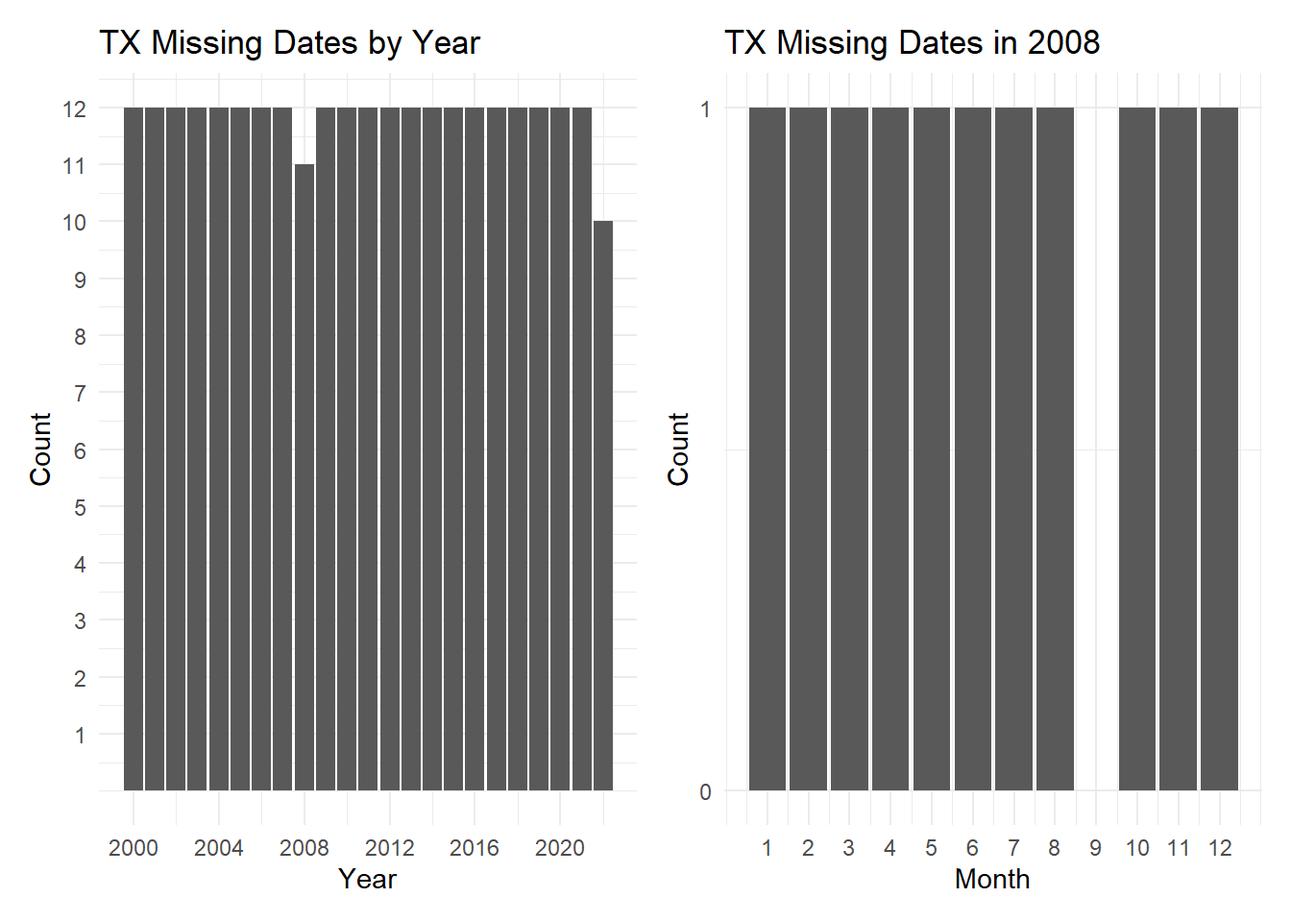
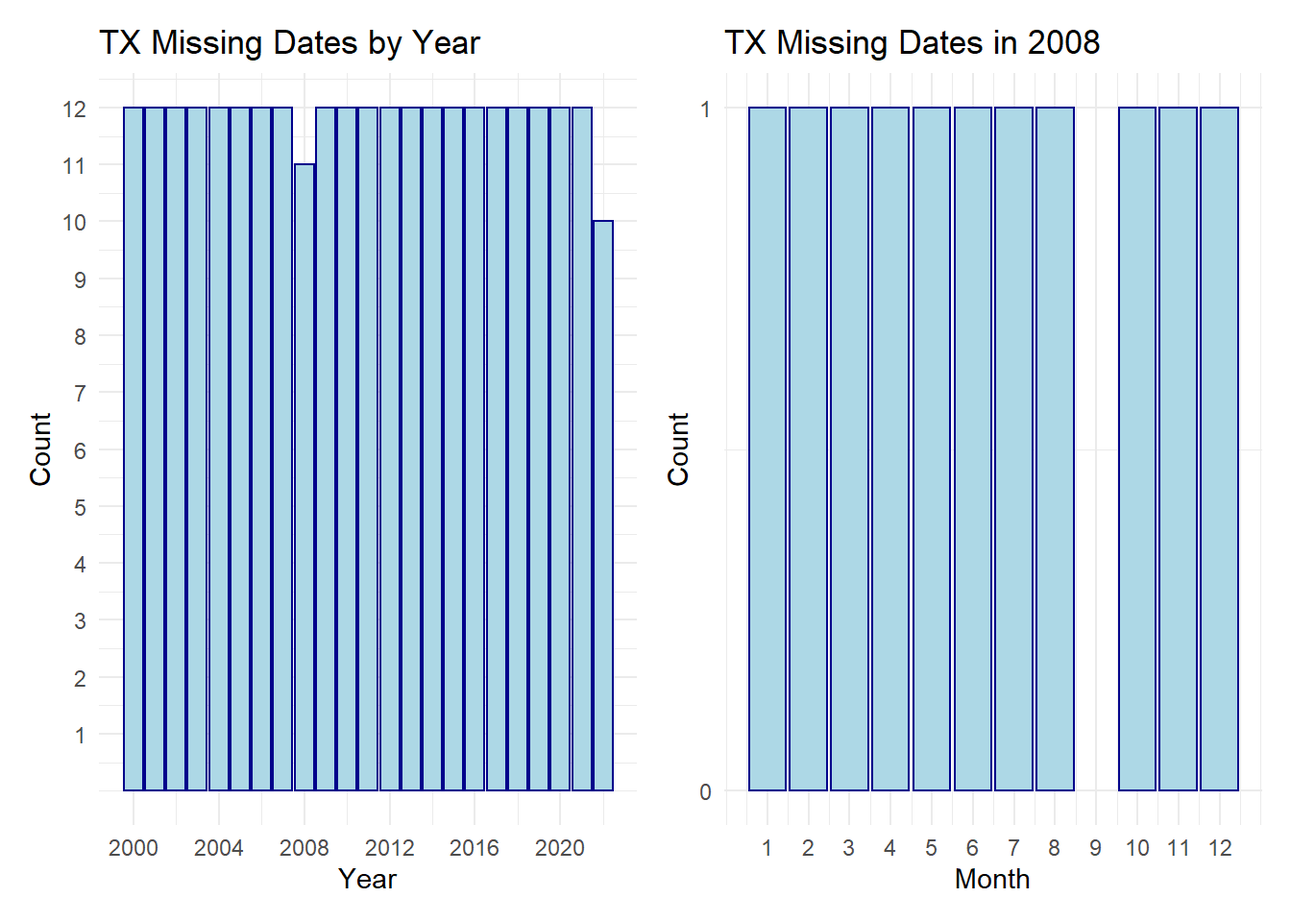
Complete Data and Results Pages and Build Book

diff --git a/docs/results.html b/docs/results.html
@@ -23,7 +23,7 @@
 <meta name="author" content="Kylie Brothers, Spencer Davis, and Sheris Johnet" />
 
 
-<meta name="date" content="2022-12-14" />
+<meta name="date" content="2022-12-15" />
 
   <meta name="viewport" content="width=device-width, initial-scale=1" />
   <meta name="apple-mobile-web-app-capable" content="yes" />
@@ -89,9 +89,13 @@
 </ul></li>
 <li class="chapter" data-level="4" data-path="results.html"><a href="results.html"><i class="fa fa-check"></i><b>4</b> Results</a>
 <ul>
-<li class="chapter" data-level="4.1" data-path="results.html"><a href="results.html#mean-high-water-mhw"><i class="fa fa-check"></i><b>4.1</b> Mean High Water (MHW)</a></li>
+<li class="chapter" data-level="4.1" data-path="results.html"><a href="results.html#mean-high-water-ft"><i class="fa fa-check"></i><b>4.1</b> Mean High Water (ft)</a></li>
 <li class="chapter" data-level="4.2" data-path="results.html"><a href="results.html#mean-low-water-mlw"><i class="fa fa-check"></i><b>4.2</b> Mean Low Water (MLW)</a></li>
-<li class="chapter" data-level="4.3" data-path="results.html"><a href="results.html#mean-tide-level-mtl"><i class="fa fa-check"></i><b>4.3</b> Mean Tide Level (MTL)</a></li>
+<li class="chapter" data-level="4.3" data-path="results.html"><a href="results.html#time-series"><i class="fa fa-check"></i><b>4.3</b> Time Series</a>
+<ul>
+<li class="chapter" data-level="4.3.1" data-path="results.html"><a href="results.html#mean-high-water"><i class="fa fa-check"></i><b>4.3.1</b> Mean High Water</a></li>
+<li class="chapter" data-level="4.3.2" data-path="results.html"><a href="results.html#mean-low-water"><i class="fa fa-check"></i><b>4.3.2</b> Mean Low Water</a></li>
+</ul></li>
 </ul></li>
 <li class="chapter" data-level="5" data-path="interactive-component.html"><a href="interactive-component.html"><i class="fa fa-check"></i><b>5</b> Interactive component</a></li>
 <li class="chapter" data-level="6" data-path="conclusion.html"><a href="conclusion.html"><i class="fa fa-check"></i><b>6</b> Conclusion</a></li>
@@ -116,15 +120,39 @@
             <section class="normal" id="section-">
 <div id="results" class="section level1 hasAnchor" number="4">
 <h1><span class="header-section-number">Chapter 4</span> Results<a href="results.html#results" class="anchor-section" aria-label="Anchor link to header"></a></h1>
-<div id="mean-high-water-mhw" class="section level2 hasAnchor" number="4.1">
-<h2><span class="header-section-number">4.1</span> Mean High Water (MHW)<a href="results.html#mean-high-water-mhw" class="anchor-section" aria-label="Anchor link to header"></a></h2>
+<div id="mean-high-water-ft" class="section level2 hasAnchor" number="4.1">
+<h2><span class="header-section-number">4.1</span> Mean High Water (ft)<a href="results.html#mean-high-water-ft" class="anchor-section" aria-label="Anchor link to header"></a></h2>
+<p><img src="finalproj_files/figure-html/unnamed-chunk-12-1.png" width="672" /></p>
+<p>Throughout the course of about 23 years, the National Oceanic and Atmospheric Administration (NOAA) has been collecting and recording the mean high water levels, measured in feet, for each of the stations around the United States. In the above graph, we can see all of the averages for each of the high water heights per month per station. By looking at these graphs, we can see that Alaska has the lowest overall, regardless of the time of the year or the trend. On the other hand, we can also see that California and New York have similar median water levels. However, it is important to note that New York has more variability and a higher H-spread.</p>
+<p><img src="finalproj_files/figure-html/unnamed-chunk-13-1.png" width="672" /></p>
+<p>Looking at the mean high water for each station as a histogram, we can see how often each station hits specific water levels and if they ever go above or below a specific value. In the above graph, we can see the number of months it reaches a certain foot above sea level. Similar to the box plot, we see that Alaska is the lowest, staying between 0 and 1 feet above sea level. Additionally, this graph solidifies the notion that California and New York have the highest mean high water level across all stations. However, in the histogram, we see that both stations are in the 5ft mark for about the same amount of time, which was not easily seen in the box plot.</p>
+<p><img src="finalproj_files/figure-html/unnamed-chunk-14-1.png" width="672" /></p>
+<p>When initially plotting the heat map for mean high water level, there was a lot of overplotting of data points, making it considerably hard to read the graphs, so we decided to jitter the points to make the chart look neater and easier to interpret.</p>
+<p>Based on the chart above, we can see that Alaska, Florida, New York, and Texas all have a similar spread width and variability, despite being at different mean high water levels. However, California and Hawaii have small amounts of variability month to month and roughly stay around the same mean high water level, hitting the same value multiple times, as shown with more lighter blue boxes.</p>
 </div>
 <div id="mean-low-water-mlw" class="section level2 hasAnchor" number="4.2">
 <h2><span class="header-section-number">4.2</span> Mean Low Water (MLW)<a href="results.html#mean-low-water-mlw" class="anchor-section" aria-label="Anchor link to header"></a></h2>
+<p><img src="finalproj_files/figure-html/unnamed-chunk-15-1.png" width="672" /></p>
+<p>Compared to the mean high water level graph, we can see major differences. For the mean high water, there was a greater variability between each of the stations, but when we looks at the mean low water levels, each station has a median value of around 0.25-0.5 feet, with California being an exception. California has a similar H-spread to Hawaii, but 50% of the data stays about 1 foot. You can also notice that Texas has a very large spread, with no outliers. Due to this, we can assume that Texas water levels have larger changes.</p>
+<p><img src="finalproj_files/figure-html/unnamed-chunk-16-1.png" width="672" /></p>
+<p>Based on the above chart, we can see that Alaska has a few months where the mean low water level went below sea level, but it usually remained between 0 and 1 feet above water level. Additionally, we can see that Texas and Florida spent most months in the 0 to 1 foot water level mark whereas New York and Texas fluctuated between 0 to 2 feet above sea level the most. Compared to the bar chart, the graph above shows that Texas spent a few months at or above 2 feet above mean low water level, which was hard to notice from the bar chart.</p>
+<p><img src="finalproj_files/figure-html/unnamed-chunk-17-1.png" width="672" /></p>
+<p>Similar to the mean high water heatmap, we jittered the points to help minimize overplotting and be able to really see where the observations are lying.</p>
+<p>By looking at the heat map for each station, we can see that Alaska and Texas have the highest variabilities in mean low water level measurements. Additionally, we can see that most stations rarely hit the same exact level more than a couple times, which helps confirm the variability by month of the data set.</p>
 </div>
-<div id="mean-tide-level-mtl" class="section level2 hasAnchor" number="4.3">
-<h2><span class="header-section-number">4.3</span> Mean Tide Level (MTL)<a href="results.html#mean-tide-level-mtl" class="anchor-section" aria-label="Anchor link to header"></a></h2>
+<div id="time-series" class="section level2 hasAnchor" number="4.3">
+<h2><span class="header-section-number">4.3</span> Time Series<a href="results.html#time-series" class="anchor-section" aria-label="Anchor link to header"></a></h2>
+<div id="mean-high-water" class="section level3 hasAnchor" number="4.3.1">
+<h3><span class="header-section-number">4.3.1</span> Mean High Water<a href="results.html#mean-high-water" class="anchor-section" aria-label="Anchor link to header"></a></h3>
+<p><img src="finalproj_files/figure-html/unnamed-chunk-18-1.png" width="672" /></p>
+<p>While looking at the above graph, we can see that California and New York consistently have the highest mean high water levels from the past 23 years, with New York slightly higher on average. However, all 6 stations have the same trend with large variability when looking at individual observations, but a steady and slight increase each year. When looking at the individual observations, it is hard to notice the upward trends, but when it is blended and more transparent (lower alpha), you can really see the positive trends overall.</p>
+</div>
+<div id="mean-low-water" class="section level3 hasAnchor" number="4.3.2">
+<h3><span class="header-section-number">4.3.2</span> Mean Low Water<a href="results.html#mean-low-water" class="anchor-section" aria-label="Anchor link to header"></a></h3>
+<p><img src="finalproj_files/figure-html/unnamed-chunk-19-1.png" width="672" /></p>
+<p>As mentioned and presented in previous charts, we can see that California has the largest overall mean low water levels throughout the past 23 years, starting just below 1 foot above sea level and increasing over time to be consistently above 1 foot. Alternatively, the other 5 stations start in 2000 just over 1 foot above sea level and slowly increase until around 2010, when each of the 5 stations start to take their own path. The station with the highest variability is Texas, which has increased and decreased the most over the past 10 years, which can be confirmed in the bar chart above.</p>
 
+</div>
 </div>
 </div>
             </section>

diff --git a/docs/data.html b/docs/data.html
@@ -23,7 +23,7 @@
 <meta name="author" content="Kylie Brothers, Spencer Davis, and Sheris Johnet" />
 
 
-<meta name="date" content="2022-12-14" />
+<meta name="date" content="2022-12-15" />
 
   <meta name="viewport" content="width=device-width, initial-scale=1" />
   <meta name="apple-mobile-web-app-capable" content="yes" />
@@ -89,9 +89,13 @@
 </ul></li>
 <li class="chapter" data-level="4" data-path="results.html"><a href="results.html"><i class="fa fa-check"></i><b>4</b> Results</a>
 <ul>
-<li class="chapter" data-level="4.1" data-path="results.html"><a href="results.html#mean-high-water-mhw"><i class="fa fa-check"></i><b>4.1</b> Mean High Water (MHW)</a></li>
+<li class="chapter" data-level="4.1" data-path="results.html"><a href="results.html#mean-high-water-ft"><i class="fa fa-check"></i><b>4.1</b> Mean High Water (ft)</a></li>
 <li class="chapter" data-level="4.2" data-path="results.html"><a href="results.html#mean-low-water-mlw"><i class="fa fa-check"></i><b>4.2</b> Mean Low Water (MLW)</a></li>
-<li class="chapter" data-level="4.3" data-path="results.html"><a href="results.html#mean-tide-level-mtl"><i class="fa fa-check"></i><b>4.3</b> Mean Tide Level (MTL)</a></li>
+<li class="chapter" data-level="4.3" data-path="results.html"><a href="results.html#time-series"><i class="fa fa-check"></i><b>4.3</b> Time Series</a>
+<ul>
+<li class="chapter" data-level="4.3.1" data-path="results.html"><a href="results.html#mean-high-water"><i class="fa fa-check"></i><b>4.3.1</b> Mean High Water</a></li>
+<li class="chapter" data-level="4.3.2" data-path="results.html"><a href="results.html#mean-low-water"><i class="fa fa-check"></i><b>4.3.2</b> Mean Low Water</a></li>
+</ul></li>
 </ul></li>
 <li class="chapter" data-level="5" data-path="interactive-component.html"><a href="interactive-component.html"><i class="fa fa-check"></i><b>5</b> Interactive component</a></li>
 <li class="chapter" data-level="6" data-path="conclusion.html"><a href="conclusion.html"><i class="fa fa-check"></i><b>6</b> Conclusion</a></li>
@@ -119,7 +123,7 @@
 <div id="sources" class="section level2 hasAnchor" number="3.1">
 <h2><span class="header-section-number">3.1</span> Sources<a href="data.html#sources" class="anchor-section" aria-label="Anchor link to header"></a></h2>
 <p>The National Oceanic and Atmospheric Administration (NOAA) gathers information on numerous stations across the United States to monitor tides and currents. The data is collected and recorded through sensors placed on each of the stations. We will be specifically looking at the recorded water levels for 6 different stations in different regions and states throughout the United States; the stations we will be analyzing are The Battery, NY; Virginia Key, Biscayne Bay, FL; Galveston Pier 21, TX; Monterey, CA; Prudhoe Bay, AK; and Honolulu, HI.</p>
-<p>We collected water levels for each station from January 2020 - October 2022 on a monthly basis; it is important to note that some stations have data through part of November and December, which will be removed in the data transformation phase. These collections included all of the possible datums (the base elevation that was used for collection purposes), recorded in feet, but we will specifically be looking at the Mean Tide Level (MTL). Since the data is collected monthly, the time is always 00:00 GMT. By collecting the data on a monthly basis, we will be able to get the best overall long-term view of the data, ~23 years. This will also ensure that the data is manageable and not overwhelming, while still being able to view long term trends and seasonality.</p>
+<p>We collected water levels for each station from January 2020 - October 2022 on a monthly basis; it is important to note that some stations have data through part of November and December, which will be removed in the data transformation phase. These collections included all of the possible types of water level recordings, recorded in feet, but we will specifically be looking at the Mean High Water (MHW) and Mean Low Water (MLW). Since the data is collected monthly, the time is always 00:00 GMT. By collecting the data on a monthly basis, we will be able to get the best overall long-term view of the data, roughly 23 years. This will also ensure that the data is manageable and not overwhelming, while still being able to view long term trends and seasonality.</p>
 <p>Currently, the data has character, number, and integer fields; the only field that will need to be transformed is the date field. Additionally, majority of the states have 274 or 275 records depending on if they have November or December included, which will be transformed to only view data from October 2022 and prior. The only states that has less than 274 records are Alaska and Texas, which will be explored further in the missing patterns sections.</p>
 </div>
 <div id="cleaning-transformation" class="section level2 hasAnchor" number="3.2">
@@ -147,11 +151,11 @@
 ##           0           0           0           0           0           0</code></pre>
 <p><img src="finalproj_files/figure-html/unnamed-chunk-6-1.png" width="672" /></p>
 <p>Based on above charts, we can see that there are only two variables with missing data points - Lowest Tide and Highest Tide.</p>
-<p>Since there are many other datums that we can use for the analysis and to view trends, seasonality, and make comparisons. Therefore, we will choose to omit these two fields from our analysis and use the other datums.</p>
+<p>Since there are many other data measurements that we can use for the analysis and to view trends, seasonality, and make comparisons. Therefore, we will choose to omit these two fields from our analysis and use the other data measurements.</p>
 <div id="data-with-missing-months" class="section level3 hasAnchor" number="3.3.1">
 <h3><span class="header-section-number">3.3.1</span> Data with Missing Months<a href="data.html#data-with-missing-months" class="anchor-section" aria-label="Anchor link to header"></a></h3>
 <p><img src="finalproj_files/figure-html/unnamed-chunk-7-1.png" width="672" /></p>
-<p>Since we have 6 stations and should only have 1 observation per month per station, we should expect to see 72 observations per year. By looking at the above chart of a count of all data by year, we can see that there are a few months missing. By data counts, mentioned earlier, we know that Alaska and Texas are the stations causing the missing values. Those are explored further and broken down by month.</p>
+<p>Since we have 6 stations and should only have 1 observation per month per station, we should expect to see 72 observations per year. By looking at the above chart of a count of all data by year, we can see that there are a few months missing. By data counts, mentioned earlier, and the fill color on the above graph, we know that Alaska and Texas are the stations causing the missing values. Those are explored further and broken down by month.</p>
 <div id="alaska" class="section level4 hasAnchor" number="3.3.1.1">
 <h4><span class="header-section-number">3.3.1.1</span> Alaska<a href="data.html#alaska" class="anchor-section" aria-label="Anchor link to header"></a></h4>
 <p><img src="finalproj_files/figure-html/unnamed-chunk-8-1.png" width="672" /></p>

diff --git a/docs/index.html b/docs/index.html
@@ -23,7 +23,7 @@
 <meta name="author" content="Kylie Brothers, Spencer Davis, and Sheris Johnet" />
 
 
-<meta name="date" content="2022-12-14" />
+<meta name="date" content="2022-12-15" />
 
   <meta name="viewport" content="width=device-width, initial-scale=1" />
   <meta name="apple-mobile-web-app-capable" content="yes" />
@@ -89,9 +89,13 @@
 </ul></li>
 <li class="chapter" data-level="4" data-path="results.html"><a href="results.html"><i class="fa fa-check"></i><b>4</b> Results</a>
 <ul>
-<li class="chapter" data-level="4.1" data-path="results.html"><a href="results.html#mean-high-water-mhw"><i class="fa fa-check"></i><b>4.1</b> Mean High Water (MHW)</a></li>
+<li class="chapter" data-level="4.1" data-path="results.html"><a href="results.html#mean-high-water-ft"><i class="fa fa-check"></i><b>4.1</b> Mean High Water (ft)</a></li>
 <li class="chapter" data-level="4.2" data-path="results.html"><a href="results.html#mean-low-water-mlw"><i class="fa fa-check"></i><b>4.2</b> Mean Low Water (MLW)</a></li>
-<li class="chapter" data-level="4.3" data-path="results.html"><a href="results.html#mean-tide-level-mtl"><i class="fa fa-check"></i><b>4.3</b> Mean Tide Level (MTL)</a></li>
+<li class="chapter" data-level="4.3" data-path="results.html"><a href="results.html#time-series"><i class="fa fa-check"></i><b>4.3</b> Time Series</a>
+<ul>
+<li class="chapter" data-level="4.3.1" data-path="results.html"><a href="results.html#mean-high-water"><i class="fa fa-check"></i><b>4.3.1</b> Mean High Water</a></li>
+<li class="chapter" data-level="4.3.2" data-path="results.html"><a href="results.html#mean-low-water"><i class="fa fa-check"></i><b>4.3.2</b> Mean Low Water</a></li>
+</ul></li>
 </ul></li>
 <li class="chapter" data-level="5" data-path="interactive-component.html"><a href="interactive-component.html"><i class="fa fa-check"></i><b>5</b> Interactive component</a></li>
 <li class="chapter" data-level="6" data-path="conclusion.html"><a href="conclusion.html"><i class="fa fa-check"></i><b>6</b> Conclusion</a></li>
@@ -117,7 +121,7 @@
 <div id="header">
 <h1 class="title">United States Water Levels</h1>
 <p class="author"><em>Kylie Brothers, Spencer Davis, and Sheris Johnet</em></p>
-<p class="date"><em>2022-12-14</em></p>
+<p class="date"><em>2022-12-15</em></p>
 </div>
 <div id="introduction" class="section level1 hasAnchor" number="1">
 <h1><span class="header-section-number">Chapter 1</span> Introduction<a href="index.html#introduction" class="anchor-section" aria-label="Anchor link to header"></a></h1>

diff --git a/docs/404.html b/docs/404.html
@@ -23,7 +23,7 @@
 <meta name="author" content="Kylie Brothers, Spencer Davis, and Sheris Johnet" />
 
 
-<meta name="date" content="2022-12-14" />
+<meta name="date" content="2022-12-15" />
 
   <meta name="viewport" content="width=device-width, initial-scale=1" />
   <meta name="apple-mobile-web-app-capable" content="yes" />
@@ -89,9 +89,13 @@
 </ul></li>
 <li class="chapter" data-level="4" data-path="results.html"><a href="results.html"><i class="fa fa-check"></i><b>4</b> Results</a>
 <ul>
-<li class="chapter" data-level="4.1" data-path="results.html"><a href="results.html#mean-high-water-mhw"><i class="fa fa-check"></i><b>4.1</b> Mean High Water (MHW)</a></li>
+<li class="chapter" data-level="4.1" data-path="results.html"><a href="results.html#mean-high-water-ft"><i class="fa fa-check"></i><b>4.1</b> Mean High Water (ft)</a></li>
 <li class="chapter" data-level="4.2" data-path="results.html"><a href="results.html#mean-low-water-mlw"><i class="fa fa-check"></i><b>4.2</b> Mean Low Water (MLW)</a></li>
-<li class="chapter" data-level="4.3" data-path="results.html"><a href="results.html#mean-tide-level-mtl"><i class="fa fa-check"></i><b>4.3</b> Mean Tide Level (MTL)</a></li>
+<li class="chapter" data-level="4.3" data-path="results.html"><a href="results.html#time-series"><i class="fa fa-check"></i><b>4.3</b> Time Series</a>
+<ul>
+<li class="chapter" data-level="4.3.1" data-path="results.html"><a href="results.html#mean-high-water"><i class="fa fa-check"></i><b>4.3.1</b> Mean High Water</a></li>
+<li class="chapter" data-level="4.3.2" data-path="results.html"><a href="results.html#mean-low-water"><i class="fa fa-check"></i><b>4.3.2</b> Mean Low Water</a></li>
+</ul></li>
 </ul></li>
 <li class="chapter" data-level="5" data-path="interactive-component.html"><a href="interactive-component.html"><i class="fa fa-check"></i><b>5</b> Interactive component</a></li>
 <li class="chapter" data-level="6" data-path="conclusion.html"><a href="conclusion.html"><i class="fa fa-check"></i><b>6</b> Conclusion</a></li>

diff --git a/docs/conclusion.html b/docs/conclusion.html
@@ -23,7 +23,7 @@
 <meta name="author" content="Kylie Brothers, Spencer Davis, and Sheris Johnet" />
 
 
-<meta name="date" content="2022-12-14" />
+<meta name="date" content="2022-12-15" />
 
   <meta name="viewport" content="width=device-width, initial-scale=1" />
   <meta name="apple-mobile-web-app-capable" content="yes" />
@@ -89,9 +89,13 @@
 </ul></li>
 <li class="chapter" data-level="4" data-path="results.html"><a href="results.html"><i class="fa fa-check"></i><b>4</b> Results</a>
 <ul>
-<li class="chapter" data-level="4.1" data-path="results.html"><a href="results.html#mean-high-water-mhw"><i class="fa fa-check"></i><b>4.1</b> Mean High Water (MHW)</a></li>
+<li class="chapter" data-level="4.1" data-path="results.html"><a href="results.html#mean-high-water-ft"><i class="fa fa-check"></i><b>4.1</b> Mean High Water (ft)</a></li>
 <li class="chapter" data-level="4.2" data-path="results.html"><a href="results.html#mean-low-water-mlw"><i class="fa fa-check"></i><b>4.2</b> Mean Low Water (MLW)</a></li>
-<li class="chapter" data-level="4.3" data-path="results.html"><a href="results.html#mean-tide-level-mtl"><i class="fa fa-check"></i><b>4.3</b> Mean Tide Level (MTL)</a></li>
+<li class="chapter" data-level="4.3" data-path="results.html"><a href="results.html#time-series"><i class="fa fa-check"></i><b>4.3</b> Time Series</a>
+<ul>
+<li class="chapter" data-level="4.3.1" data-path="results.html"><a href="results.html#mean-high-water"><i class="fa fa-check"></i><b>4.3.1</b> Mean High Water</a></li>
+<li class="chapter" data-level="4.3.2" data-path="results.html"><a href="results.html#mean-low-water"><i class="fa fa-check"></i><b>4.3.2</b> Mean Low Water</a></li>
+</ul></li>
 </ul></li>
 <li class="chapter" data-level="5" data-path="interactive-component.html"><a href="interactive-component.html"><i class="fa fa-check"></i><b>5</b> Interactive component</a></li>
 <li class="chapter" data-level="6" data-path="conclusion.html"><a href="conclusion.html"><i class="fa fa-check"></i><b>6</b> Conclusion</a></li>

diff --git a/docs/interactive-component.html b/docs/interactive-component.html
@@ -23,7 +23,7 @@
 <meta name="author" content="Kylie Brothers, Spencer Davis, and Sheris Johnet" />
 
 
-<meta name="date" content="2022-12-14" />
+<meta name="date" content="2022-12-15" />
 
   <meta name="viewport" content="width=device-width, initial-scale=1" />
   <meta name="apple-mobile-web-app-capable" content="yes" />
@@ -89,9 +89,13 @@
 </ul></li>
 <li class="chapter" data-level="4" data-path="results.html"><a href="results.html"><i class="fa fa-check"></i><b>4</b> Results</a>
 <ul>
-<li class="chapter" data-level="4.1" data-path="results.html"><a href="results.html#mean-high-water-mhw"><i class="fa fa-check"></i><b>4.1</b> Mean High Water (MHW)</a></li>
+<li class="chapter" data-level="4.1" data-path="results.html"><a href="results.html#mean-high-water-ft"><i class="fa fa-check"></i><b>4.1</b> Mean High Water (ft)</a></li>
 <li class="chapter" data-level="4.2" data-path="results.html"><a href="results.html#mean-low-water-mlw"><i class="fa fa-check"></i><b>4.2</b> Mean Low Water (MLW)</a></li>
-<li class="chapter" data-level="4.3" data-path="results.html"><a href="results.html#mean-tide-level-mtl"><i class="fa fa-check"></i><b>4.3</b> Mean Tide Level (MTL)</a></li>
+<li class="chapter" data-level="4.3" data-path="results.html"><a href="results.html#time-series"><i class="fa fa-check"></i><b>4.3</b> Time Series</a>
+<ul>
+<li class="chapter" data-level="4.3.1" data-path="results.html"><a href="results.html#mean-high-water"><i class="fa fa-check"></i><b>4.3.1</b> Mean High Water</a></li>
+<li class="chapter" data-level="4.3.2" data-path="results.html"><a href="results.html#mean-low-water"><i class="fa fa-check"></i><b>4.3.2</b> Mean Low Water</a></li>
+</ul></li>
 </ul></li>
 <li class="chapter" data-level="5" data-path="interactive-component.html"><a href="interactive-component.html"><i class="fa fa-check"></i><b>5</b> Interactive component</a></li>
 <li class="chapter" data-level="6" data-path="conclusion.html"><a href="conclusion.html"><i class="fa fa-check"></i><b>6</b> Conclusion</a></li>

diff --git a/docs/proposal.html b/docs/proposal.html
@@ -23,7 +23,7 @@
 <meta name="author" content="Kylie Brothers, Spencer Davis, and Sheris Johnet" />
 
 
-<meta name="date" content="2022-12-14" />
+<meta name="date" content="2022-12-15" />
 
   <meta name="viewport" content="width=device-width, initial-scale=1" />
   <meta name="apple-mobile-web-app-capable" content="yes" />
@@ -89,9 +89,13 @@
 </ul></li>
 <li class="chapter" data-level="4" data-path="results.html"><a href="results.html"><i class="fa fa-check"></i><b>4</b> Results</a>
 <ul>
-<li class="chapter" data-level="4.1" data-path="results.html"><a href="results.html#mean-high-water-mhw"><i class="fa fa-check"></i><b>4.1</b> Mean High Water (MHW)</a></li>
+<li class="chapter" data-level="4.1" data-path="results.html"><a href="results.html#mean-high-water-ft"><i class="fa fa-check"></i><b>4.1</b> Mean High Water (ft)</a></li>
 <li class="chapter" data-level="4.2" data-path="results.html"><a href="results.html#mean-low-water-mlw"><i class="fa fa-check"></i><b>4.2</b> Mean Low Water (MLW)</a></li>
-<li class="chapter" data-level="4.3" data-path="results.html"><a href="results.html#mean-tide-level-mtl"><i class="fa fa-check"></i><b>4.3</b> Mean Tide Level (MTL)</a></li>
+<li class="chapter" data-level="4.3" data-path="results.html"><a href="results.html#time-series"><i class="fa fa-check"></i><b>4.3</b> Time Series</a>
+<ul>
+<li class="chapter" data-level="4.3.1" data-path="results.html"><a href="results.html#mean-high-water"><i class="fa fa-check"></i><b>4.3.1</b> Mean High Water</a></li>
+<li class="chapter" data-level="4.3.2" data-path="results.html"><a href="results.html#mean-low-water"><i class="fa fa-check"></i><b>4.3.2</b> Mean Low Water</a></li>
+</ul></li>
 </ul></li>
 <li class="chapter" data-level="5" data-path="interactive-component.html"><a href="interactive-component.html"><i class="fa fa-check"></i><b>5</b> Interactive component</a></li>
 <li class="chapter" data-level="6" data-path="conclusion.html"><a href="conclusion.html"><i class="fa fa-check"></i><b>6</b> Conclusion</a></li>
